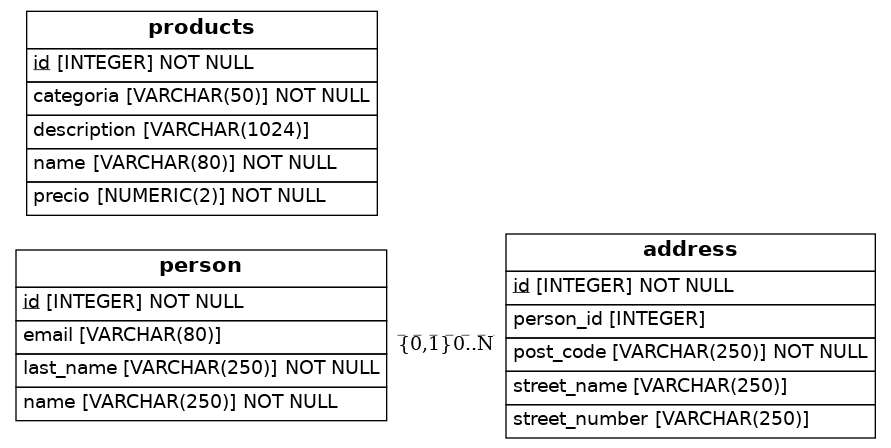
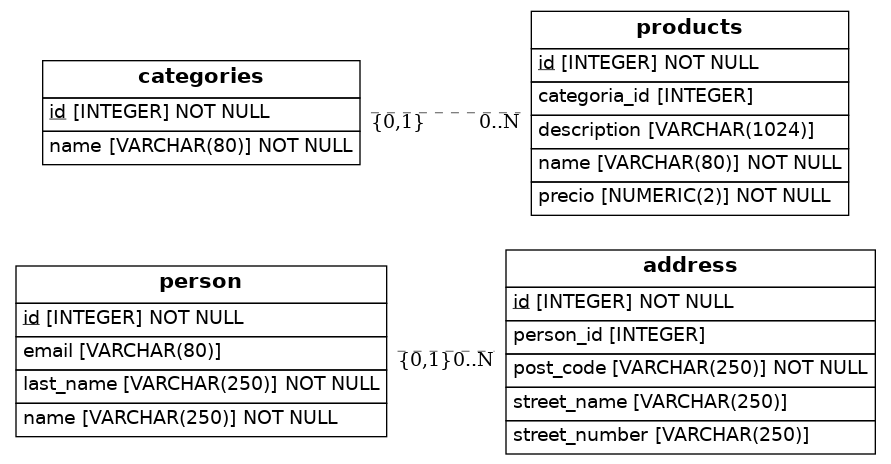
:zap: Table Categories created

Changed region(s): [[0.0, 0.5, 1.0, 1.0], [0.0303, 0.0, 0.4848, 0.5], [0.5152, 0.0, 0.9697, 0.4688]]

diff --git a/src/models.py b/src/models.py
@@ -43,10 +43,16 @@ class Products(Base):
 
     description = Column(String(1024), nullable=True)
     precio = Column(Numeric(2), nullable=False)
-    categoria = Column(String(50), nullable=False )
+
+    categoria_id = Column(Integer, ForeignKey('categories.id'))
+    categorias = relationship("Categoria", backref="productos")
 
 
-
+class Categoria(Base):
+    __tablename__ = 'categories'
+    id = Column(Integer, primary_key=True)
+    name = Column(String(80), nullable=False)
+    # productos [] = relationchip() 
 
 
 
